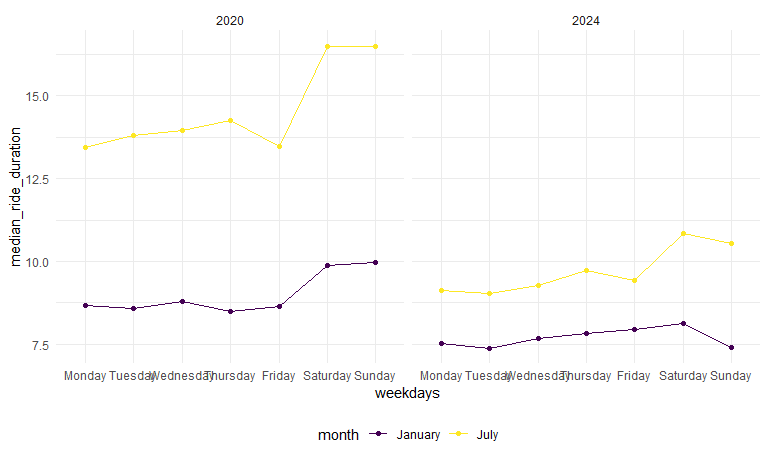
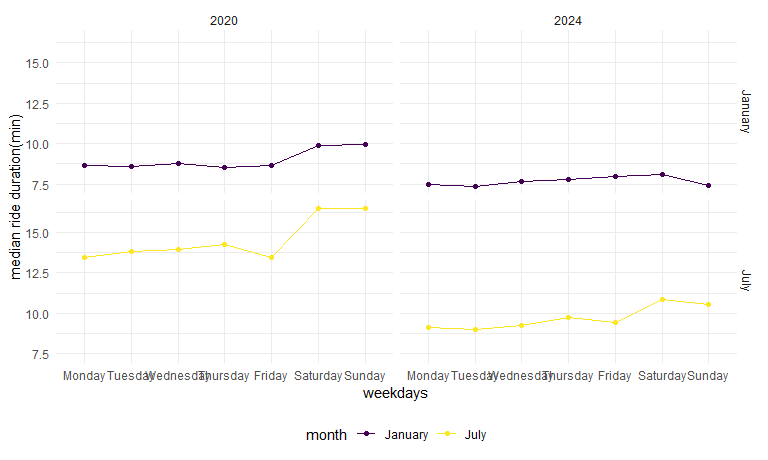
add label for problem 3

diff --git a/p8105_hw3_rw3031.md b/p8105_hw3_rw3031.md
@@ -532,7 +532,8 @@ citibike|>
   summarize(median_ride_duration = median(duration))|>
   ggplot(aes(x=weekdays, y=median_ride_duration, color = month, group = month))+
   geom_point()+geom_line()+
-  facet_grid(~year)
+  facet_grid(month~year)+
+  labs(y= "median ride duration(min)")
 ```
 
     ## `summarise()` has grouped output by 'year', 'month'. You can override using the
@@ -553,8 +554,9 @@ of year and month except for January 2024.
 citibike|>
   filter(year == 2024)|>
   ggplot(aes(x=duration,y=month,fill = month))+
-  geom_violin()+
-  facet_grid(member_casual~rideable_type)
+  geom_boxplot()+
+  facet_grid(member_casual~rideable_type)+
+  labs(x= "ride duration(min)")
 ```
 
 <img src="p8105_hw3_rw3031_files/figure-gfm/unnamed-chunk-22-1.png" width="90%" />
